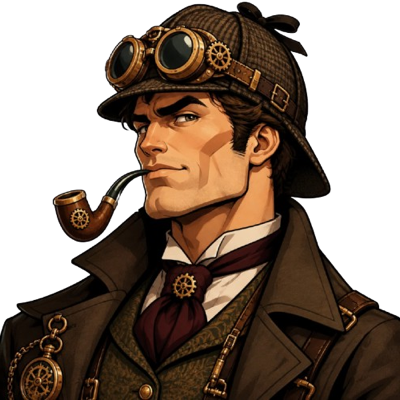
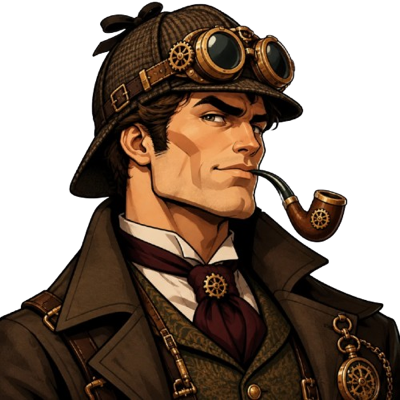
feat(web): narrator on the left of the Ask panel, facing it

diff --git a/web/components/ctrlf/ask-panel.tsx b/web/components/ctrlf/ask-panel.tsx
@@ -338,15 +338,16 @@ export function AskPanel() {
         {phase.kind === "answered" && <AnswerPhoto job={phase.job} now={phase.at} />}
       </section>
 
-      {/* The right column: the answer slip once there is one, and the narrator standing in
-          the section's bottom-right corner. In the page flow, so he never covers content. */}
-      <div className="flex flex-col gap-4 md:col-span-3">
+      {/* The left column: the answer slip once there is one, and the narrator standing in
+          the section's bottom-left corner, facing the panel. In the page flow, so he never
+          covers content. On phones it follows the panel. */}
+      <div className="flex flex-col gap-4 md:order-first md:col-span-3">
         {slip && answer && (
           <aside aria-label="Answer slip">
             <ReceiptPrinter autoPrint className="h-[22rem] w-full" key={answer.id} label="Answer slip" lines={slip.lines} stamp={slip.stamp} />
           </aside>
         )}
-        <Narrator className="mt-auto ml-auto w-40 md:w-full md:max-w-[220px]" speaking={speaking} />
+        <Narrator className="mt-auto mr-auto w-40 md:w-full md:max-w-[220px]" speaking={speaking} />
       </div>
     </div>
   );

diff --git a/web/components/ctrlf/narrator.tsx b/web/components/ctrlf/narrator.tsx
@@ -7,7 +7,7 @@ import { cn } from "@/lib/utils";
 
 /*
  * The narrator: the steampunk detective whose voice (ElevenLabs) reads every answer.
- * He stands in the bottom-right corner of the Ask section and comes alive while a
+ * He stands in the bottom-left corner of the Ask section and comes alive while a
  * reply plays; `speaking` follows the reply's audio.
  */
 

diff --git a/web/DESIGN.md b/web/DESIGN.md
@@ -43,10 +43,10 @@ Steampunk is the brand, so these break TasteSkill's no-ornament rule on purpose,
 ## The narrator
 
 A steampunk detective (deerstalker, brass goggles, pipe) is the face of the ElevenLabs voice that reads every
-answer. He stands in the bottom-right corner of the Ask section, in the page flow so he never covers content
+answer. He stands in the bottom-left corner of the Ask section, facing the panel,, in the page flow so he never covers content
 (`components/ctrlf/narrator.tsx`, image `public/narrator.png`). Before a question the right column holds only him;
 after an answer the telegram slip prints above him. He nods while a reply's audio plays and his caption reads
-"Speaking…". On phones he sits right-aligned under the Ask panel. Still under reduced motion.
+"Speaking…". On phones he sits under the Ask panel. Still under reduced motion.
 
 ## Kokonut components in use
 
